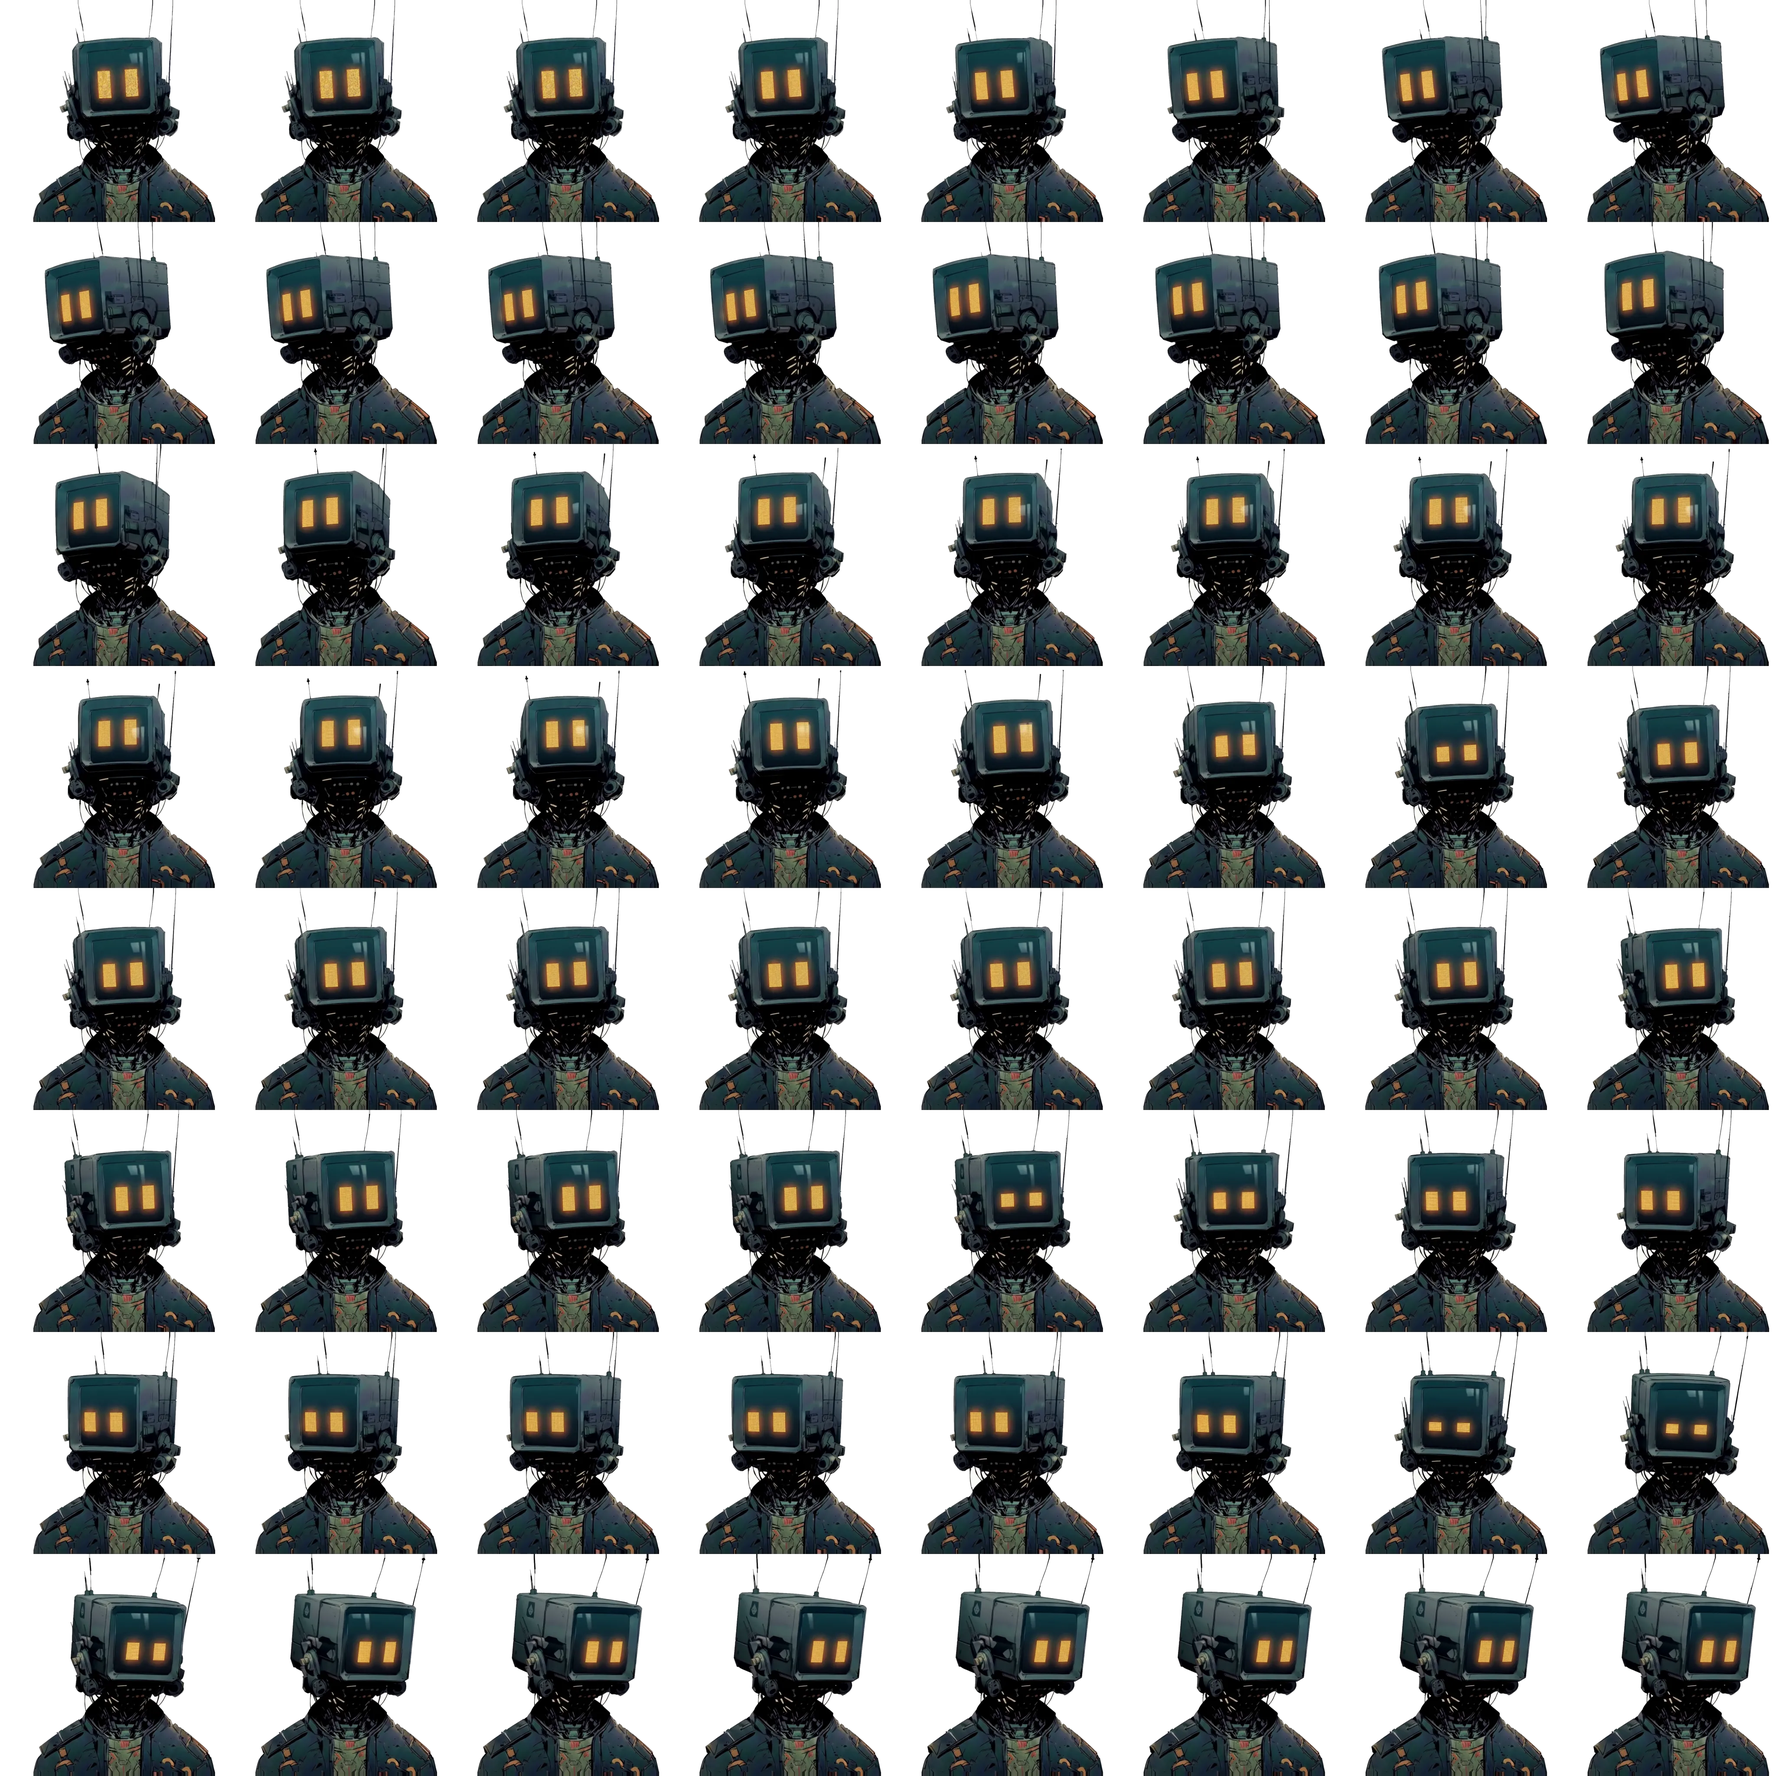
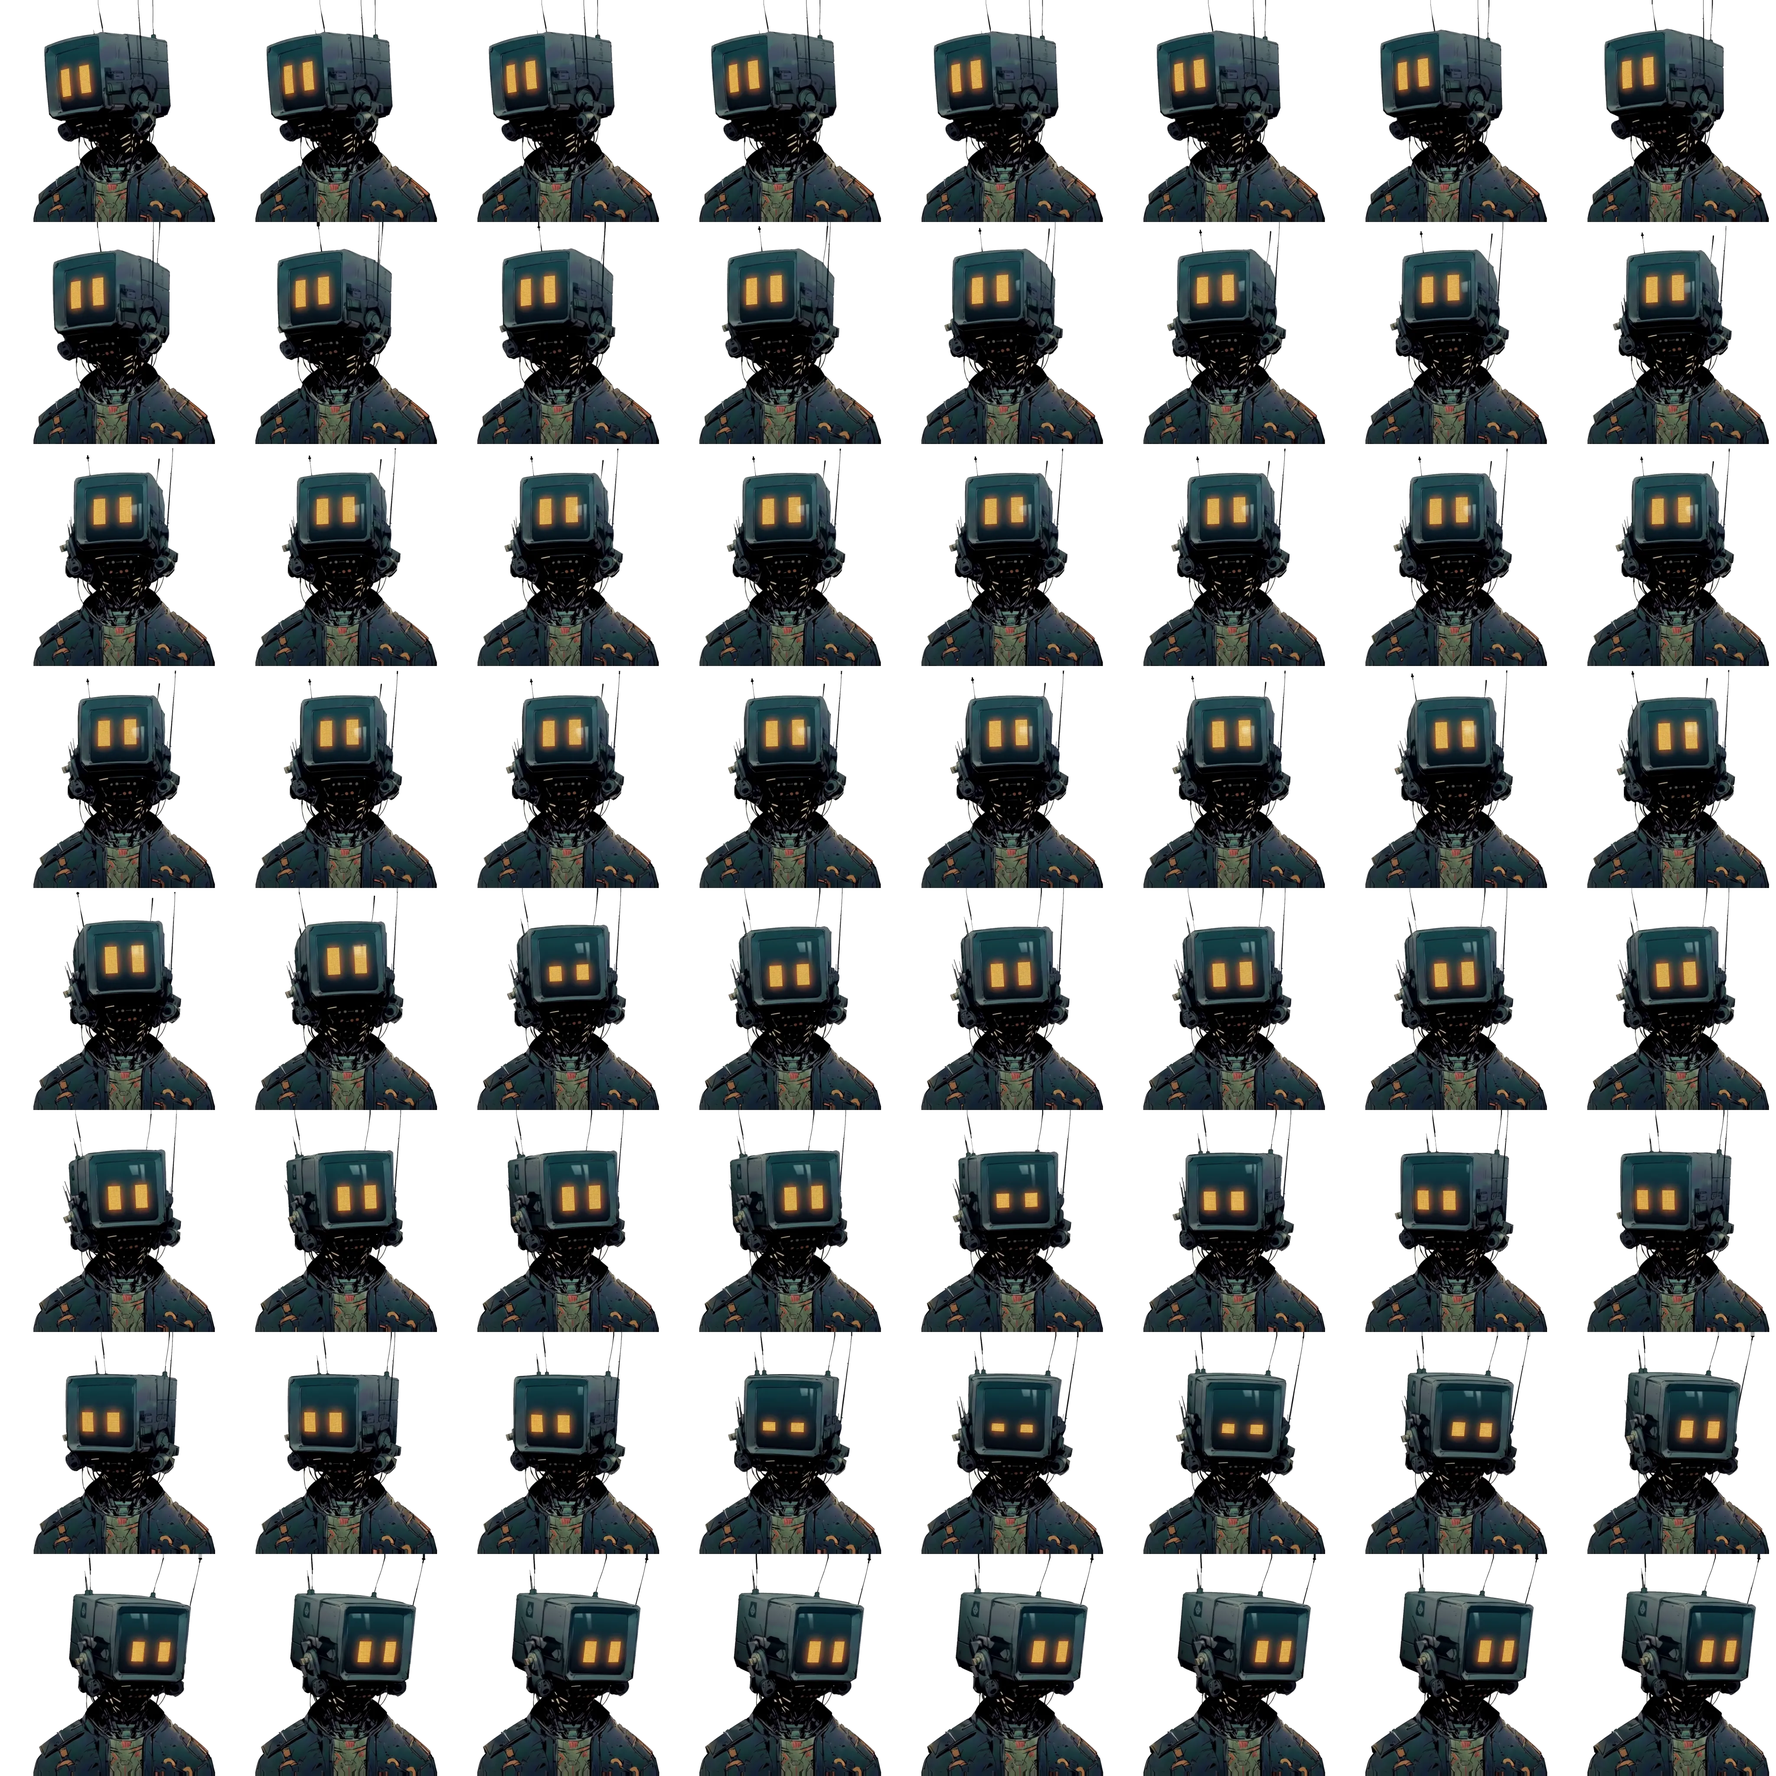
fix: rebuild hero gaze as monotonic line with direct cursor mapping
The scrub model toured the video's non-monotonic timeline, so frames
jumped between unrelated poses. The atlas is now one pose-continuous
line: run B (frames 23-56, gaze 325->540) + an 18-cell bridge squeezed
into a ~1% cursor sliver (crossing plays as a quick head-flick) + run C
(frames 109-120, gaze 545->721). Adjacent cells are always within 3
video frames and the line is monotonic in virtual gaze X, so cursor X
maps directly to a cell and every +/-2-cell scrub renders as coherent
motion. The squint frame doubles as the proximity expression.

Verified live: instrumented sweep shows max 2-cell steps with zero
jumps, and settled poses at 5 cursor positions visually match gaze
direction.

diff --git a/src/components/site/HeroGaze.tsx b/src/components/site/HeroGaze.tsx
@@ -1,49 +1,39 @@
 "use client";
 
 import { useEffect, useRef } from "react";
-import GAZE_MAP from "./heroGazeMap.json";
+import MAP from "./heroGazeMap.json";
 
 /**
- * Cursor-following robot v3 — the "scrub the timeline" model.
+ * Cursor-following robot v4 — the "monotonic line" model.
  *
- * The atlas holds 61 frames of Andrew's scanning video in TEMPORAL order
- * (8x8 sheet, stabilized + edge-extruded). Each tick, the current frame
- * scrubs a few steps toward the frame whose measured gaze (from
- * heroGazeMap.json: [x, y, glowHeight] per frame, normalized) best matches
- * the cursor — so every rendered transition is between temporally adjacent
- * frames and the head always MOVES through poses instead of jumping
- * between them. Squint (cursor near the robot) and wide-eyed alert (fast
- * cursor pass) are just timeline targets reached by the same scrub.
+ * The atlas holds one pose-continuous sweep assembled from the scanning
+ * video: run B (frames 23-56, gaze left -> center-right), a bridge (frames
+ * 59-108, ~every 3rd) whose virtual X is squeezed into the ~1% sliver
+ * between the runs — a cursor crossing plays a quick head-flick, and no
+ * cursor position rests on a bridge pose — then run C (109-120, gaze
+ * continues center-right -> hard right where B left off). Every adjacent
+ * pair of cells is within 3 video frames, so stepping through the line is
+ * ALWAYS smooth — and because the line is monotonic in (virtual) gaze X,
+ * the cursor maps DIRECTLY to a position on it: the robot follows the
+ * mouse like the placeholder site did, with no timeline tours.
  *
- * v2's grid model caused the jerk Andrew saw: the video's gaze coverage is
- * a curve, and rectangular-gridding a curve makes dead plateaus and pose
- * cliffs. Scrubbing follows the curve itself.
+ * heroGazeMap.json: { vx: normalized virtual gaze-X per line index
+ * (strictly increasing), squint: line index of the slit-eye frame, n }.
+ * Proximity to the robot targets the squint; the scrub limiter (±2
+ * cells/tick) keeps every rendered transition adjacent.
  */
 
 const ATLAS = "/hero/robot-atlas-v3.webp";
 const COLS = 8;
 const ROWS = 8;
-const N = GAZE_MAP.length;
+const N: number = MAP.n;
+const VX: number[] = MAP.vx;
+const SQUINT_IDX: number = MAP.squint;
+const REST_IDX = Math.round(N * 0.45); // center-ish gaze
 
-const SPEED = 1.7; // frames per tick (~100 source-frames/s at 60fps)
-const X_WEIGHT = 1;
-const Y_WEIGHT = 0.55; // vertical gaze span is smaller — weigh it less
-const HYSTERESIS = 0.06; // distance bonus for staying near the current frame
+const SPEED = 2; // max cells per tick
+const SMOOTH = 0.22; // cursor smoothing
 const SQUINT_MARGIN = 48;
-const ALERT_SPEED = 2.2; // viewport-widths/sec
-const ALERT_HOLD_MS = 500;
-
-// derived targets
-const SQUINT_IDX = GAZE_MAP.reduce((m, g, i) => (g[2] < GAZE_MAP[m][2] ? i : m), 0);
-const WIDE_IDX = GAZE_MAP.reduce((m, g, i) => (g[2] > GAZE_MAP[m][2] ? i : m), 0);
-const REST_IDX = GAZE_MAP.reduce(
-  (m, g, i) =>
-    Math.abs(g[0] - 0.5) + Math.abs(g[1] - 0.5) <
-    Math.abs(GAZE_MAP[m][0] - 0.5) + Math.abs(GAZE_MAP[m][1] - 0.5)
-      ? i
-      : m,
-  0
-);
 
 function pos(idx: number): string {
   const col = idx % COLS;
@@ -51,22 +41,17 @@ function pos(idx: number): string {
   return `${(col / (COLS - 1)) * 100}% ${(row / (ROWS - 1)) * 100}%`;
 }
 
-function nearestFrame(mx: number, my: number, cur: number): number {
-  let best = 0;
-  let bestCost = Infinity;
-  for (let i = 0; i < N; i++) {
-    const dx = GAZE_MAP[i][0] - mx;
-    const dy = GAZE_MAP[i][1] - my;
-    const cost =
-      X_WEIGHT * dx * dx +
-      Y_WEIGHT * dy * dy +
-      HYSTERESIS * Math.abs(i - cur) / N;
-    if (cost < bestCost) {
-      bestCost = cost;
-      best = i;
-    }
+/** cursor x (0..1) -> line index via the monotonic virtual-X table */
+function lineIndex(x: number): number {
+  let lo = 0;
+  let hi = N - 1;
+  while (lo < hi) {
+    const mid = (lo + hi) >> 1;
+    if (VX[mid] < x) lo = mid + 1;
+    else hi = mid;
   }
-  return best;
+  if (lo > 0 && Math.abs(VX[lo - 1] - x) < Math.abs(VX[lo] - x)) lo -= 1;
+  return lo;
 }
 
 export default function HeroGaze({ className }: { className?: string }) {
@@ -78,35 +63,23 @@ export default function HeroGaze({ className }: { className?: string }) {
     if (window.matchMedia("(prefers-reduced-motion: reduce)").matches) return;
 
     let mx = 0.5;
-    let my = 0.4;
+    let sx = 0.5;
     let cur = REST_IDX;
-    let target = REST_IDX;
     let lastRendered = -1;
     let rafId: number;
     let rect = el.getBoundingClientRect();
     let near = false;
-    let alertUntil = 0;
-    let lastMoveAt = 0;
-    let lastX = 0.5;
 
     const updateRect = () => {
       rect = el.getBoundingClientRect();
     };
 
     const tick = (now: number) => {
-      if (near) {
-        target = SQUINT_IDX;
-      } else if (now < alertUntil) {
-        target = WIDE_IDX;
-      } else if (now - lastMoveAt < 2500 || lastMoveAt === 0) {
-        target = nearestFrame(mx, my, cur);
-      } else {
-        // idle: small wander around wherever we settled
-        target = Math.max(
-          0,
-          Math.min(N - 1, Math.round(target + Math.sin(now / 1500) * 0.6))
-        );
-      }
+      sx += (mx - sx) * SMOOTH;
+      const drift = Math.sin(now / 3000) * 0.012;
+      const target = near
+        ? SQUINT_IDX
+        : lineIndex(Math.max(0, Math.min(1, sx + drift)));
 
       const delta = target - cur;
       cur += Math.max(-SPEED, Math.min(SPEED, delta));
@@ -121,27 +94,14 @@ export default function HeroGaze({ className }: { className?: string }) {
 
     const onMouse = (e: MouseEvent) => {
       mx = e.clientX / window.innerWidth;
-      my = e.clientY / window.innerHeight;
       near =
         e.clientX > rect.left - SQUINT_MARGIN &&
         e.clientX < rect.right + SQUINT_MARGIN &&
         e.clientY > rect.top - SQUINT_MARGIN &&
         e.clientY < rect.bottom + SQUINT_MARGIN;
-      const now = performance.now();
-      if (lastMoveAt) {
-        const dt = (now - lastMoveAt) / 1000;
-        const speed = Math.abs(mx - lastX) / Math.max(dt, 0.008);
-        if (speed > ALERT_SPEED && !near) alertUntil = now + ALERT_HOLD_MS;
-      }
-      lastMoveAt = now;
-      lastX = mx;
     };
     const onTouch = (e: TouchEvent) => {
-      if (e.touches[0]) {
-        mx = e.touches[0].clientX / window.innerWidth;
-        my = e.touches[0].clientY / window.innerHeight;
-        lastMoveAt = performance.now();
-      }
+      if (e.touches[0]) mx = e.touches[0].clientX / window.innerWidth;
     };
 
     window.addEventListener("mousemove", onMouse, { passive: true });

diff --git a/scripts/build-gaze-atlas.py b/scripts/build-gaze-atlas.py
@@ -1,24 +1,44 @@
-"""Build the hero gaze atlas from a robot scanning video (timeline model).
+"""Build the hero gaze atlas from the robot scanning video (line model, v4).
 
-The frontend (src/components/site/HeroGaze.tsx) scrubs the video's own
-timeline toward whichever frame best matches the cursor, so the atlas keeps
-frames in TEMPORAL order — every rendered transition is between adjacent
-video frames and motion stays coherent by construction.
+The frontend (src/components/site/HeroGaze.tsx) maps cursor X DIRECTLY to a
+position on one pose-continuous "line" of frames, then scrubs toward it at
+most 2 cells per tick. For that to look right the line must satisfy two
+properties this script constructs by hand-picked frame ranges:
 
-Pipeline (run whenever the source video is re-generated):
-  1. Extract every frame; key out the white background via border
-     flood-fill (only background CONNECTED to the frame edge is removed, so
-     interior white highlights survive; dust islands are dropped by size).
-  2. Stabilize the body: warp each frame (translate + scale, anchored
-     bottom-center) so the torso matches the median — no body jumps.
-  3. Subsample the timeline (every 2nd frame) and measure each kept frame's
-     gaze by eye-glow centroid (HSV threshold on the orange glow) plus glow
-     height (squint/wide metric).
-  4. Compose an 8x8 atlas in timeline order with 8px edge-extruded cell
-     padding (fractional-pixel background scaling bleeds into the SAME
-     frame, never a neighbor).
-  5. Write the atlas webp + heroGazeMap.json ([x, y, glowH] normalized, per
-     timeline index) consumed by HeroGaze for target selection.
+  1. Adjacent cells are temporally adjacent-or-near in the source video
+     (max 3-frame gap), so any +/-2-cell scrub renders as coherent motion.
+  2. The line is monotonic in (virtual) gaze X, so cursor position maps to
+     gaze direction with no timeline "tours" through unrelated poses.
+
+The source video's scan path is non-monotonic, so the line is assembled from
+its two clean monotonic sweeps plus a compressed crossing:
+
+  run B   frames 23-56   gaze X 325 -> 540 (left -> center-right), 34 cells
+  bridge  frames 59-104 every 3rd, + 106, 108 — 18 flourish cells whose
+          virtual X is squeezed into the ~1% sliver between the runs, so a
+          cursor crossing plays a quick pose-coherent head-flick and (almost)
+          no cursor position rests on a bridge frame
+  run C   frames 109-120 gaze X 545 -> 721 (center-right -> hard right),
+          12 cells; picks up exactly where run B's real gaze left off
+
+64 cells total — a full 8x8 atlas. The squint (frame 109, the narrowest
+eye-glow) lands at run C's first cell and doubles as the proximity
+expression: HeroGaze targets it when the cursor hovers the robot.
+
+Shared pipeline stages (same as ever): white-key via border flood-fill (only
+edge-connected background dies; interior highlights survive), torso
+stabilization (translate+scale anchored bottom-center to the median torso
+band), and 8px edge-extruded atlas cells (fractional-pixel background
+scaling bleeds into the SAME frame, never a neighbor).
+
+Output: public/hero/robot-atlas-v3.webp plus
+src/components/site/heroGazeMap.json {vx: normalized virtual gaze-X per
+cell (strictly increasing), squint: cell index, n}.
+
+NOTE: the frame ranges above were measured against THIS video
+(design/assets/robot video/Robot Scanning Motion.mp4). If the video is
+re-generated, re-measure the monotonic runs (print each frame's eye-glow
+centroid X) before trusting RUN_B/BRIDGE/RUN_C.
 
 Usage:  python scripts/build-gaze-atlas.py "design/assets/robot video/Robot Scanning Motion.mp4"
 """
@@ -33,9 +53,13 @@ from PIL import Image
 
 COLS = ROWS = 8
 CELL, INSET = 512, 8
-SUBSAMPLE = 2
 OUT_ATLAS = os.path.join("public", "hero", "robot-atlas-v3.webp")
 OUT_MAP = os.path.join("src", "components", "site", "heroGazeMap.json")
+
+RUN_B = list(range(23, 57))
+BRIDGE = list(range(59, 105, 3)) + [106, 108]
+RUN_C = list(range(109, 121))
+SQUINT_FRAME = 109
 
 
 def key_frame(bgr):
@@ -76,11 +100,7 @@ def gaze_of(bgra):
     )[:2]
     if len(comps) < 2:
         return None
-    return (
-        float((comps[0][1][0] + comps[1][1][0]) / 2),
-        float((comps[0][1][1] + comps[1][1][1]) / 2),
-        float((comps[0][0][3] + comps[1][0][3]) / 2),
-    )
+    return float((comps[0][1][0] + comps[1][1][0]) / 2)
 
 
 def main(video):
@@ -119,29 +139,42 @@ def main(video):
         )
     print(f"stabilized to torso cx {ref_cx:.1f}, width {ref_w:.1f}")
 
-    frames = stab[::SUBSAMPLE]
-    if len(frames) > COLS * ROWS:
-        raise SystemExit(
-            f"{len(frames)} frames won't fit {COLS}x{ROWS}; raise SUBSAMPLE"
-        )
+    line = RUN_B + BRIDGE + RUN_C
+    n_cells = len(line)
+    if n_cells > COLS * ROWS:
+        raise SystemExit(f"{n_cells} cells won't fit {COLS}x{ROWS}")
+    print(
+        f"line: {n_cells} cells (B {len(RUN_B)} + bridge {len(BRIDGE)} "
+        f"+ C {len(RUN_C)}), max video gap "
+        f"{max(line[i + 1] - line[i] for i in range(n_cells - 1))}"
+    )
 
-    gmap = []
-    for f in frames:
-        g = gaze_of(f)
-        gmap.append(g if g else gmap[-1])
-    xs = np.array([g[0] for g in gmap])
-    ys = np.array([g[1] for g in gmap])
-    hs = np.array([g[2] for g in gmap])
-    nx = (xs - xs.min()) / (xs.max() - xs.min())
-    ny = (ys - ys.min()) / (ys.max() - ys.min())
-    nh = (hs - hs.min()) / (hs.max() - hs.min())
+    xs = []
+    for fi in line:
+        g = gaze_of(stab[fi])
+        xs.append(g if g is not None else xs[-1])
+
+    # virtual X: runs keep real gaze X; bridge interpolates across the sliver
+    # between them, then strict monotonicity is enforced
+    vx = xs.copy()
+    b_end = len(RUN_B)
+    c_start = b_end + len(BRIDGE)
+    for k in range(len(BRIDGE)):
+        vx[b_end + k] = xs[b_end - 1] + (xs[c_start] - xs[b_end - 1]) * (k + 1) / (
+            len(BRIDGE) + 1
+        )
+    for i in range(1, n_cells):
+        if vx[i] <= vx[i - 1]:
+            vx[i] = vx[i - 1] + 0.01
+    vmin, vmax = vx[0], vx[-1]
+    nvx = [round((v - vmin) / (vmax - vmin), 4) for v in vx]
 
     content = CELL - 2 * INSET
     atlas = np.zeros((CELL * ROWS, CELL * COLS, 4), np.uint8)
 
     def put(fi, cell_i):
         r, c = cell_i // COLS, cell_i % COLS
-        img = cv2.resize(frames[fi], (content, content), interpolation=cv2.INTER_AREA)
+        img = cv2.resize(stab[fi], (content, content), interpolation=cv2.INTER_AREA)
         cell = np.zeros((CELL, CELL, 4), np.uint8)
         cell[INSET : INSET + content, INSET : INSET + content] = img
         cell[:INSET, INSET : INSET + content] = img[0:1, :]
@@ -150,24 +183,20 @@ def main(video):
         cell[:, INSET + content :] = cell[:, INSET + content - 1 : INSET + content]
         atlas[r * CELL : (r + 1) * CELL, c * CELL : (c + 1) * CELL] = cell
 
-    for i in range(len(frames)):
-        put(i, i)
-    for i in range(len(frames), COLS * ROWS):
-        put(len(frames) - 1, i)
+    for i, fi in enumerate(line):
+        put(fi, i)
+    for i in range(n_cells, COLS * ROWS):
+        put(line[-1], i)
 
     out = Image.fromarray(cv2.cvtColor(atlas, cv2.COLOR_BGRA2RGBA))
     out.save(OUT_ATLAS, "WEBP", quality=80, method=6)
     print(f"atlas {out.size} -> {OUT_ATLAS} ({os.path.getsize(OUT_ATLAS)//1024} KB)")
 
-    data = [
-        [round(float(a), 4), round(float(b), 4), round(float(c), 4)]
-        for a, b, c in zip(nx, ny, nh)
-    ]
-    json.dump(data, open(OUT_MAP, "w"))
-    print(
-        f"map -> {OUT_MAP} ({len(data)} frames; "
-        f"squintiest {int(np.argmin(nh))}, widest {int(np.argmax(nh))})"
+    json.dump(
+        {"vx": nvx, "squint": line.index(SQUINT_FRAME), "n": n_cells},
+        open(OUT_MAP, "w"),
     )
+    print(f"map -> {OUT_MAP} ({n_cells} cells, squint at {line.index(SQUINT_FRAME)})")
 
 
 if __name__ == "__main__":
